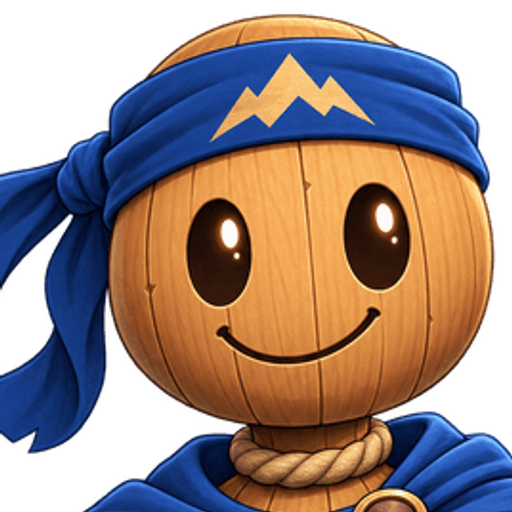
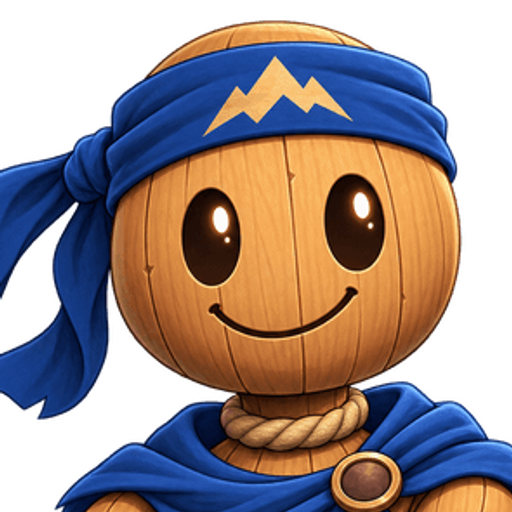
fix(profile,assets): frame gap per tier + portrait center/zoom pass
- profile: remove avatarWrap overflow clip (was cutting orange/gold
  frame deco, looked weird) -> add per-frame nameFrame margin
  (level-100/premium xxl 32, default xl 24, orange md 12, else sm 8)
  via nameFrameMarginTop so bow/gold point clears nameplate with
  proper gap (screenshots showed orange 11px overlap, gold 27px)
- assets: v4 recrop classic/phoenix/master zoom out 0.64-0.66 bbox
  (295x310,301x308,310x326) to show shoulders like warden
  (was 224-244 tight face); pathfinder cx 214->224 +10 shift and
  258x335 (0.72) now centered full face+shoulder, leaf/compass
  visible; all 512 cover from _orig

diff --git a/src/app/(tabs)/profile.tsx b/src/app/(tabs)/profile.tsx
@@ -222,6 +222,19 @@ export default function ProfileScreen() {
   const portraitArt = equippedSlug('portrait') ? cosmeticArt(equippedSlug('portrait')) : null;
   const frameSlug = equippedSlug('frame');
   const frameArt = frameSlug ? cosmeticArt(frameSlug) : null;
+  // Per-frame gap so the frame's bottom deco (bow / gold point) never eats the nameplate.
+  // Orange circles (05/10/25/50) sit ~11px below avatarWrap; gold ornate (100) ~27px; default ~10px.
+  const nameFrameMarginTop =
+    frameSlug === 'frame-level-100' || frameSlug === 'premium_frame'
+      ? spacing.xxl
+      : frameSlug === 'frame-default'
+        ? spacing.xl
+        : frameSlug === 'frame-level-05' ||
+            frameSlug === 'frame-level-10' ||
+            frameSlug === 'frame-level-25' ||
+            frameSlug === 'frame-level-50'
+          ? spacing.md
+          : spacing.sm;
   const rawNameplate = profile?.equipped?.nameplate ?? 'nameplate-default';
   // DB was slug; legacy rows / optimistic state may still be UUID — resolve via catalog if needed
   const nameplateSlug = (() => {
@@ -296,7 +309,7 @@ export default function ProfileScreen() {
                 </View>
               </View>
               {/* PH3-01b — name frame + badge centered below name banner */}
-              <View style={styles.nameFrameWrap}>
+              <View style={[styles.nameFrameWrap, { marginTop: nameFrameMarginTop }]}>
                 <View style={[styles.nameFrame, hasNameplate && styles.nameFramePremium]}>
                   {hasNameplate ? (
                     <Image
@@ -542,8 +555,6 @@ const styles = StyleSheet.create({
     height: 120,
     alignItems: 'center',
     justifyContent: 'center',
-    overflow: 'hidden',
-    borderRadius: radius.pill,
   },
   avatar: {
     width: 96,
